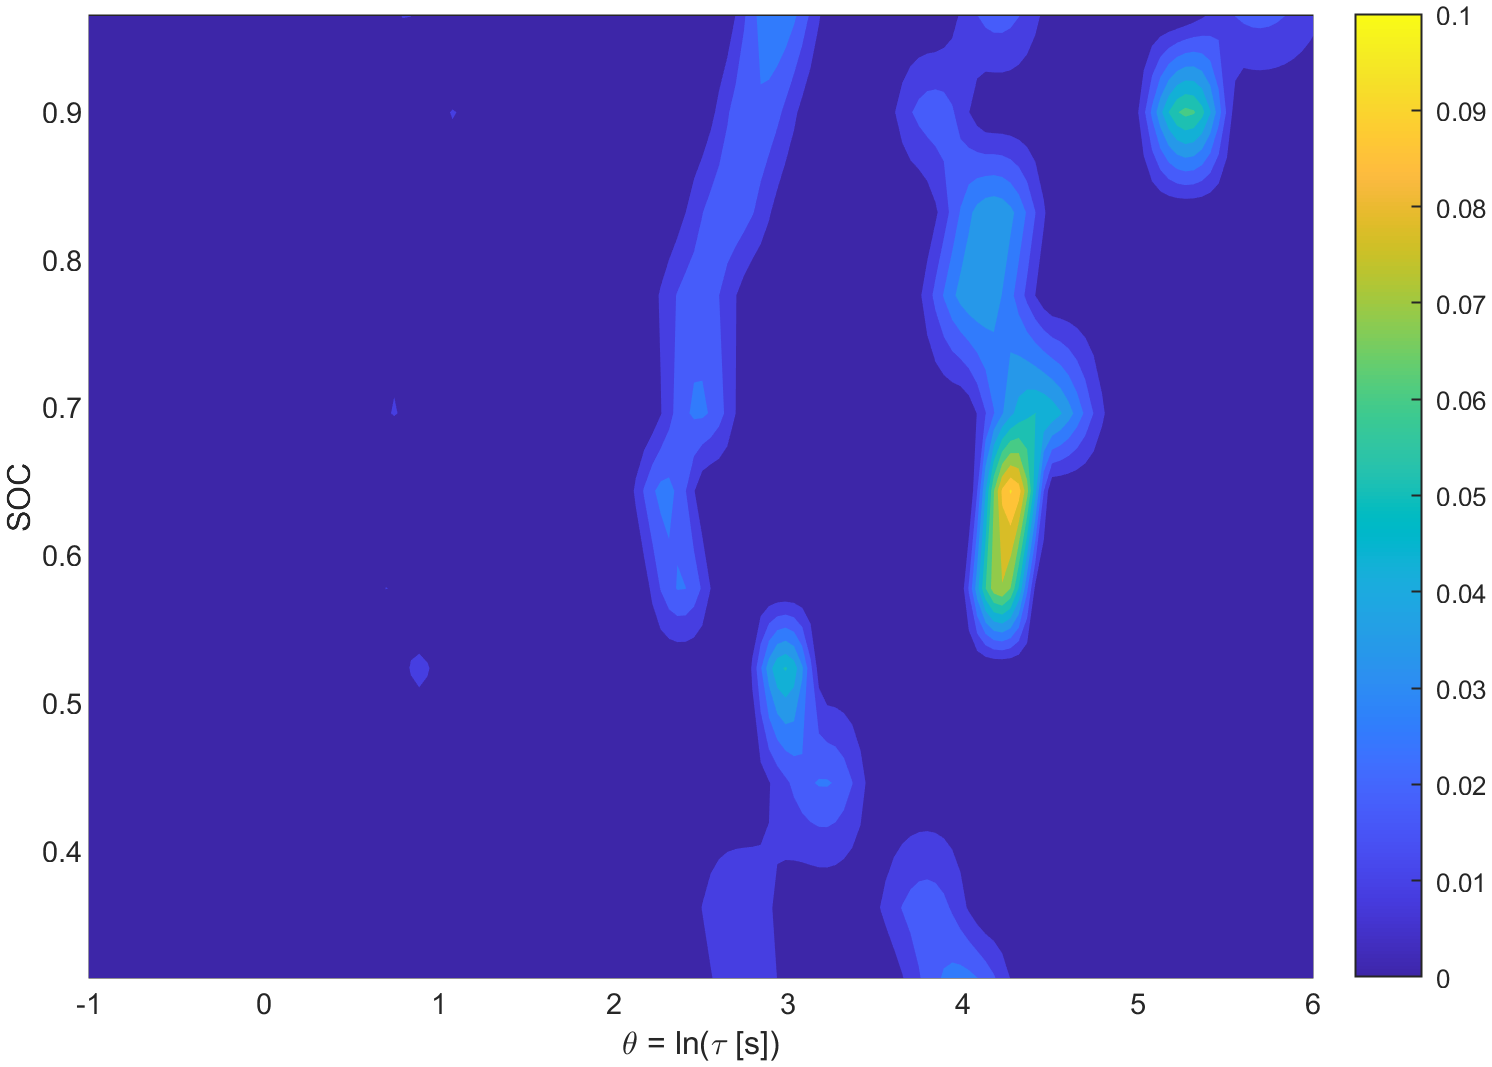
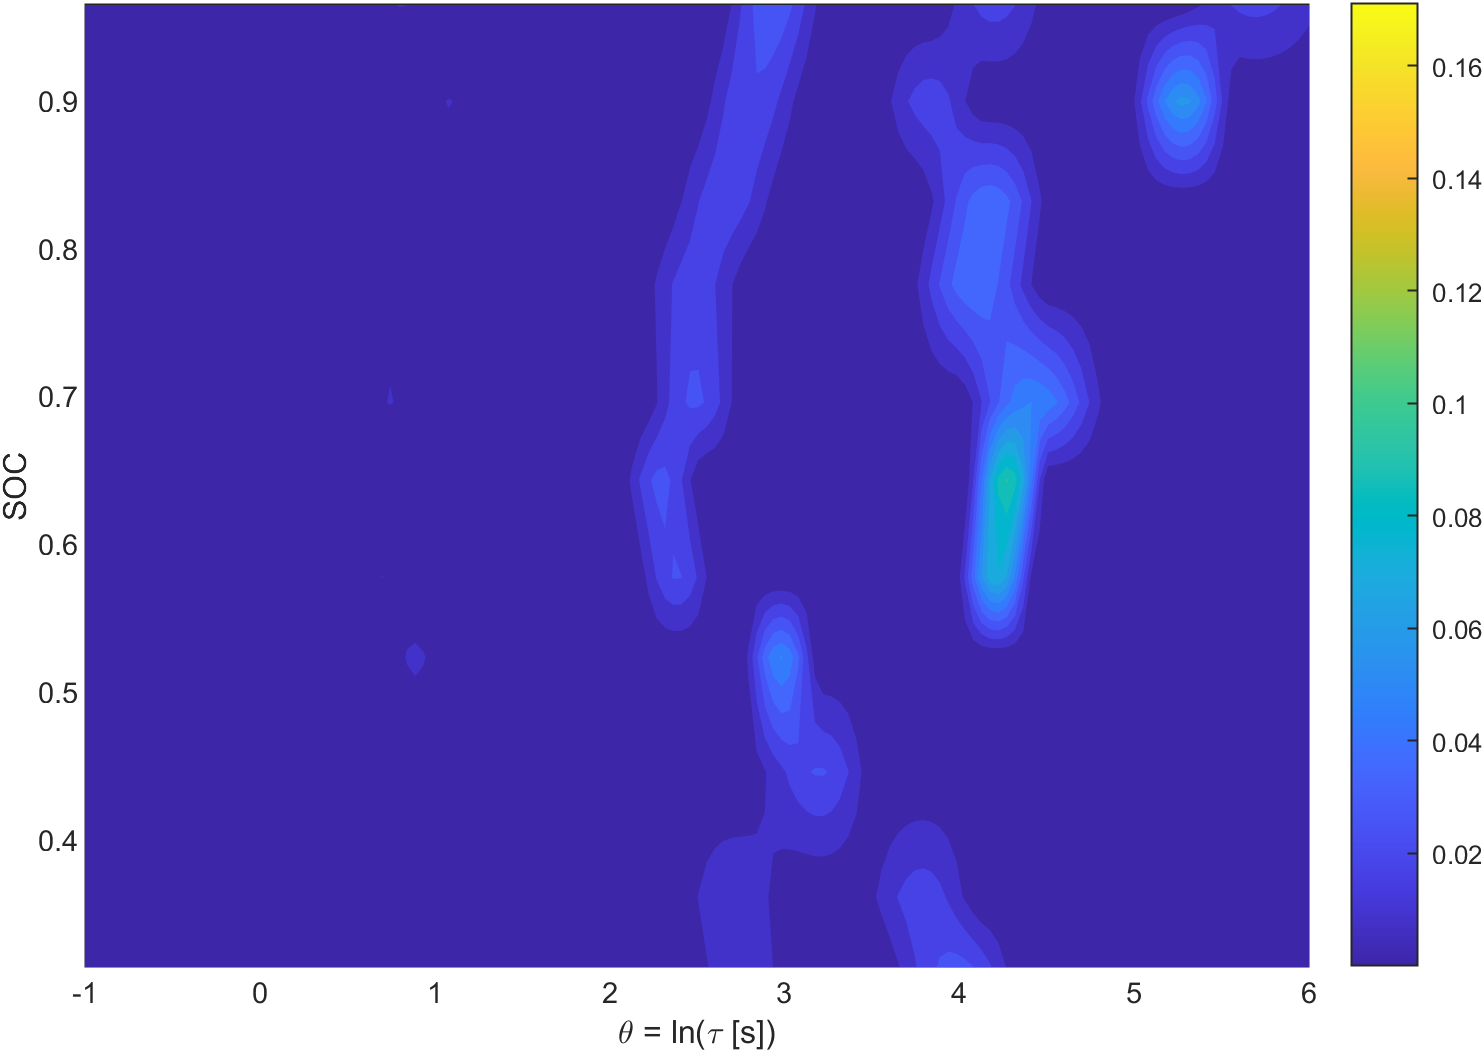
.
.

Changed region(s): [[0.0, 0.0, 1.0, 1.0], [0.5889, 0.0608, 0.7439, 0.6084], [0.496, 0.5779, 0.5889, 0.7909]]

diff --git a/Wisconsin/RUN_fig_e.m b/Wisconsin/RUN_fig_e.m
@@ -61,7 +61,7 @@ box on; hold on;
 
 contourf(Xgrid, Ygrid, gamma_sorted_mat, 20, 'LineStyle','none');
 colormap(parula(256));  % 좀 더 부드럽게 256단계
-clim([0, 0.1]);         % gamma 값 범위 (0~0.1)
+%caxis([0, 0.1]);         % gamma 값 범위 (0~0.1)
 colorbar;               % colorbar 표시
 
 xlabel('\theta = ln(\tau [s])','FontSize',axisLabelFontSize);
@@ -89,7 +89,7 @@ box on; hold on;
 % 실제 사용할 trip 개수 (numTrips - 6)
 nUse = size(gamma_sorted_mat, 1);
 
-offsetGap = 0.1;  % SOC별 곡선을 위로 띄울 간격
+offsetGap = 0.012;  % SOC별 곡선을 위로 띄울 간격
 
 % parula에서 nUse개 색상 뽑아온다.
 % → index=1일 때 보통 파란 쪽, index=nUse일 때 노란 쪽
@@ -124,11 +124,18 @@ set(gca,'FontSize',axisTickFontSize);
 
 % x축 범위 지정
 xlim([-1, 6]);
+ylim([0, 0.18]);
 
-% y축 범위 지정 (offset까지 고려)
-minGamma = min(gamma_sorted_mat(:));
-maxGamma = max(gamma_sorted_mat(:));
-ylim([minGamma, maxGamma + offsetGap*(nUse-1)]);
+% % y축 범위 지정 (offset까지 고려)
+% minGamma = min(gamma_sorted_mat(:));
+% maxGamma = max(gamma_sorted_mat(:));
+% ylim([minGamma, maxGamma + offsetGap*(nUse-1)]);
+
+
+
+
+
+
 
 % (옵션) 축 자체도 Clipping off 가능
 % set(gca,'Clipping','off');
